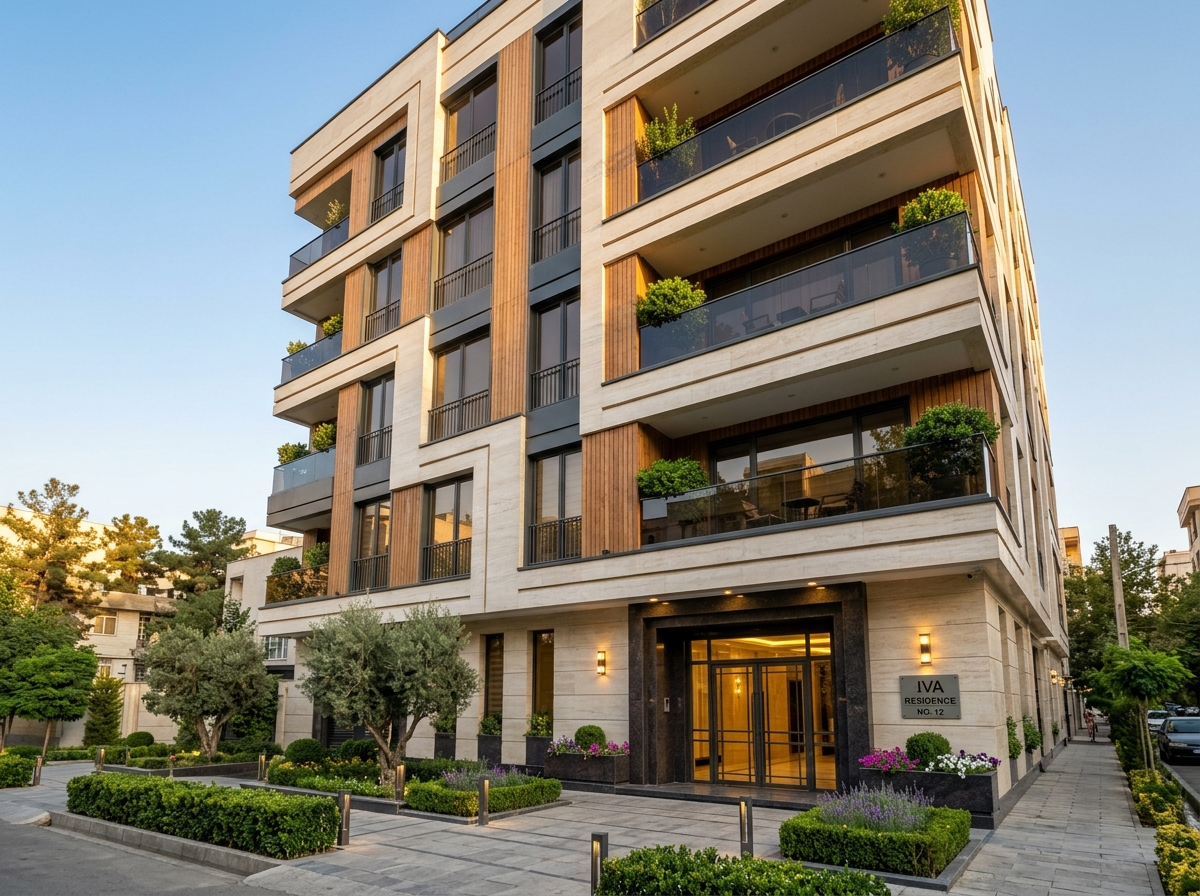
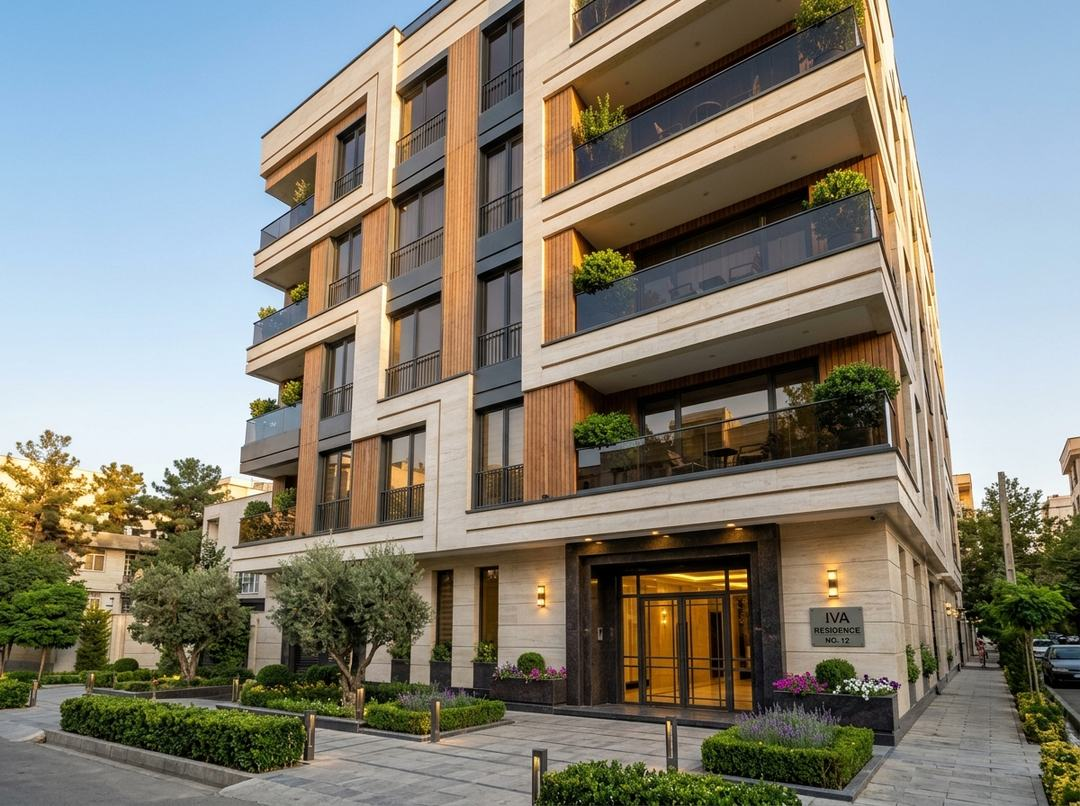
perf: optimize and compress images to lightweight modern WebP format

diff --git a/src/data.ts b/src/data.ts
@@ -83,11 +83,11 @@ export const listings: (Listing & { is_investment?: boolean; is_urgent?: boolean
       "مشاعات تمام سنگ",
       "دوربین مداربسته و لابی شیک"
     ],
-    "primaryImage": "apartment-1-facade.jpg",
+    "primaryImage": "apartment-1-facade.webp",
     "images": [
-      "apartment-1-facade.jpg",
-      "apartment-2-interior.jpg",
-      "apartment-3-facade.jpg"
+      "apartment-1-facade.webp",
+      "apartment-2-interior.webp",
+      "apartment-3-facade.webp"
     ],
     "description": "فروش آپارتمان ۱۱۰ متری نوساز کلید نخورده در گرمدره شمالی | رو به نما و غرق در نور\n\nواحدی بسیار خوشنقشه و بدون حتی یک سانتیمتر پرتی در یکی از آرامترین و عریضترین خیابانهای گرمدره شمالی.\n\nمشخصات واحد:\n🏢 متراژ: ۱۱۰ متر مربع\n✨ وضعیت: نوساز و کلید نخورده\n🛏 خواب: ۲ خواب استاندارد (یک خواب مستر با کمد دیواریهای جادار)\n☀ نورگیری: سالن پردهخور رو به نما با پنجرههای قدی و آفتابگیر مستقیم\n🍳 آشپزخانه: کابینتهای مدرن، گاز رومیزی، هود مخفی و جای ساید و ظرفشویی\n❄🔥 تاسیسات: داکت اسپلیت و پکیج مستقل\n\nمشخصات ساختمان:\n🚗 پارکینگ سندی اختصاصی بدون مزاحم\n📦 انباری بزرگ سندی\n🛗 آسانسور ۸ نفره کابین تمام استیل ایتالیایی\n🏛 نمای رومی سنگ تراورتن کرم با نورپردازی مهندسی شبانه\n📄 سند آماده انتقال رسمی با کد رهگیری\n\nدسترسی سریع ۲ دقیقهای به بزرگراه شهید لشکری (جاده مخصوص) و ایستگاه مترو.",
     "agentName": "املاک صدر",
@@ -132,11 +132,11 @@ export const listings: (Listing & { is_investment?: boolean; is_urgent?: boolean
       "کابینت MDF ضدخش",
       "دسترسی پیاده به مراکز خرید"
     ],
-    "primaryImage": "apartment-2-interior.jpg",
+    "primaryImage": "apartment-2-interior.webp",
     "images": [
-      "apartment-2-interior.jpg",
-      "apartment-3-facade.jpg",
-      "apartment-1-facade.jpg"
+      "apartment-2-interior.webp",
+      "apartment-3-facade.webp",
+      "apartment-1-facade.webp"
     ],
     "description": "فروش آپارتمان ۸۵ متری خوشنقشه در بلوار امیرکبیر گرمدره\n\nگزینهای ایدهآل و مقرونبهصرفه برای سکونت خانواده یا سرمایهگذاری پربازده در قلب گرمدره با دسترسی پیاده به تمامی امکانات رفاهی و خدماتی.\n\nویژگیهای واحد:\n🏢 متراژ: ۸۵ متر مربع\n🛏 ۲ اتاق خواب دلباز با کمد دیواری\n🛋 سالن پذیرایی مربع با قابلیت چیدمان آسان\n🚗 پارکینگ اختصاصی\n🛗 آسانسور مدرن\n📦 انباری اختصاصی\n📄 سند تکبرگ عرصه و اعیان، قابلیت دریافت وام مسکن تا ۸۰۰ میلیون تومان\n💰 قابلیت رهن کامل تا ۶۵۰ میلیون تومان (توسط املاک صدر)\n\nفاصله تا اتوبان تهران-کرج کمتر از ۳ دقیقه.",
     "agentName": "املاک صدر",
@@ -181,11 +181,11 @@ export const listings: (Listing & { is_investment?: boolean; is_urgent?: boolean
       "سیستم خانه هوشمند",
       "متریال لوکس وارداتی"
     ],
-    "primaryImage": "apartment-3-facade.jpg",
+    "primaryImage": "apartment-3-facade.webp",
     "images": [
-      "apartment-3-facade.jpg",
-      "apartment-1-facade.jpg",
-      "apartment-2-interior.jpg"
+      "apartment-3-facade.webp",
+      "apartment-1-facade.webp",
+      "apartment-2-interior.webp"
     ],
     "description": "فروش آپارتمان تکواحدی ۱۴۰ متری در کوهک گرمدره | لوکس و آرام\n\nیکی از پروژههای فاخر و برند در بافت دنج و ویلایی کوهک گرمدره جنوبی، ساختمانی آرام با همسایگان گزینششده و چشمانداز فوقالعاده.\n\nمشخصات برجسته:\n🏢 طبقه تکواحدی بدون دیوار مشترک\n📐 مساحت: ۱۴۰ متر مربع\n🛏 ۳ خواب استاندارد (یک خواب مستر با کلوزت روم اختصاصی)\n🌄 نورگیری دوطرفه شمالی-جنوبی با بالکن قابل چیدمان\n🚗 ۲ پارکینگ سندی اختصاصی (باکس)\n🛋 کف سنگ دهبید سوپر، شیرآلات توکار شودر\n🌿 روفگاردن مجهز با آلاچیق و باربیکیو و دید پانوراما\n📄 سند تکبرگ ششدانگ آماده انتقال قطعی\n\nنزدیکی بینظیر به ایستگاه متروی گرمدره و بزرگراه تهران-کرج.",
     "agentName": "املاک صدر",
@@ -229,11 +229,11 @@ export const listings: (Listing & { is_investment?: boolean; is_urgent?: boolean
       "پنجره دوجداره وینتک",
       "نگهبانی محله و امنیت بالا"
     ],
-    "primaryImage": "apartment-1-facade.jpg",
+    "primaryImage": "apartment-1-facade.webp",
     "images": [
-      "apartment-1-facade.jpg",
-      "apartment-2-interior.jpg",
-      "apartment-3-facade.jpg"
+      "apartment-1-facade.webp",
+      "apartment-2-interior.webp",
+      "apartment-3-facade.webp"
     ],
     "description": "فروش آپارتمان ۹۵ متری دو خوابه در شهرک شاهد گرمدره\n\nواقع در یکی از منظمترین و اصیلترین شهرکهای مسکونی گرمدره با خیابانهای عریض و فضای سبز محلهای مناسب پیادهروی و زندگی آرام.\n\nامکانات و مشخصات:\n🏢 ۹۵ متر زیربنای مهندسیساز\n🛏 ۲ خواب با کمد دیواریهای عمیق\n🚗 پارکینگ سندی بدون مزاحم\n🛗 آسانسور مدرن بیصدا\n📦 انباری کاربردی\n🛋 سالن خوشچیدمان رو به آفتاب\n📄 سند تکبرگ ششدانگ، آماده انتقال در دفترخانه\n\nتخلیه و آماده تحویل فوری کلید.",
     "agentName": "املاک صدر",
@@ -278,11 +278,11 @@ export const listings: (Listing & { is_investment?: boolean; is_urgent?: boolean
       "جکوزی اختصاصی در مستر",
       "باربیکیو سنگی در تراس"
     ],
-    "primaryImage": "apartment-3-facade.jpg",
+    "primaryImage": "apartment-3-facade.webp",
     "images": [
-      "apartment-3-facade.jpg",
-      "apartment-2-interior.jpg",
-      "apartment-1-facade.jpg"
+      "apartment-3-facade.webp",
+      "apartment-2-interior.webp",
+      "apartment-1-facade.webp"
     ],
     "description": "فروش پنتهاوس ۱۸۰ متری مجلل در گرمدره شمالی | ویوی ۳۶۰ درجه رشته کوه البرز\n\nملکی کمنظیر برای افرادی که خواهان فضایی ویلایی در کالبد یک آپارتمان لوکس و ایمن هستند.\n\nجزئیات ملک:\n🏢 متراژ بنا: ۱۸۰ متر + ۴۰ متر تراس بدون مشرف\n🛏 ۳ خواب مجلل (۲ مستر با جکوزی اختصاصی و کلوزت)\n🌄 چشمانداز خیرهکننده و دید باز بدون مزاحمت\n🚗 ۲ پارکینگ اختصاصی سندی\n🛗 آسانسور اختصاصی با کلید کدینگ\n🍳 آشپزخانه مدرن با صفحه کورین و فرنیش برند\n🔥 شومینه برقی مدرن و سیستم صوتی توکار هوشمند\n📄 سند تکبرگ اعیان\n\nبازدید با هماهنگی قبلی از طریق دپارتمان املاک صدر.",
     "agentName": "املاک صدر",
@@ -325,11 +325,11 @@ export const listings: (Listing & { is_investment?: boolean; is_urgent?: boolean
       "قرارداد رسمی در سامانه کاتب با کد رهگیری",
       "متریال درجه یک تضمین شده"
     ],
-    "primaryImage": "apartment-1-facade.jpg",
+    "primaryImage": "apartment-1-facade.webp",
     "images": [
-      "apartment-1-facade.jpg",
-      "apartment-3-facade.jpg",
-      "apartment-2-interior.jpg"
+      "apartment-1-facade.webp",
+      "apartment-3-facade.webp",
+      "apartment-2-interior.webp"
     ],
     "description": "پیشفروش مطمئن آپارتمان ۱۰۰ متری در بهترین لوکیشن بلوار امیرکبیر گرمدره\n\nبهترین فرصت برای خانهدار شدن و افزایش ارزش سرمایه با شرایط پرداخت منعطف و متناسب با بودجه شما.\n\nاطلاعات پروژه:\n🏗 پیشرفت فیزیکی پروژه: ۶۰ درصد (مرحله تیغهچینی و تاسیسات)\n🏢 متراژ واحدها: ۱۰۰ متر ۲ خواب\n⏱ زمان تحویل: ۱۰ ماه آینده\n💰 شرایط پرداخت: ۴۰٪ نقد، ۴۵٪ اقساط همگام با پیشرفت کار، ۵٪ تحویل، ۱۰٪ سند\n📄 ثبت قرارداد رسمی با کد رهگیری و تعهد خسارت تاخیر روزانه\n\nجهت دریافت جدول اقساط و رویت پیشرفت پروژه با ما در ارتباط باشید.",
     "agentName": "املاک صدر",
@@ -429,7 +429,7 @@ export const blogPosts: BlogPost[] = [
   </a>
 </div>
 `,
-    "coverImage": "apartment-1-facade.jpg",
+    "coverImage": "apartment-1-facade.webp",
     "metaTitle": "راهنمای خرید آپارتمان در گرمدره | املاک صدر",
     "metaDescription": "صفر تا صد خرید آپارتمان در گرمدره البرز، میانگین قیمت هر متر، بهترین محلهها، سند تکبرگ و نکات طلایی معامله مسکن با مشاورین املاک صدر.",
     "focusKeyword": "خرید آپارتمان در گرمدره"
@@ -466,7 +466,7 @@ export const blogPosts: BlogPost[] = [
 محله کوهک به دلیل نزدیکی به ایستگاه مترو و اتوبان تهران-کرج، محبوبیت بالایی دارد. بافت کوهک ترکیبی از باغهای سرسبز و ساختمانهای نوساز کمتراکم (تکواحدی) است که آرامش بینظیری را برای ساکنین رقم میزند.
 </p>
 `,
-    "coverImage": "apartment-3-facade.jpg",
+    "coverImage": "apartment-3-facade.webp",
     "metaTitle": "بهترین محلههای گرمدره برای خرید آپارتمان | املاک صدر",
     "metaDescription": "معرفی و مقایسه محلههای گرمدره شمالی، بلوار امیرکبیر و کوهک برای خرید آپارتمان و سکونت خانواده. مشاوره تخصصی در دپارتمان املاک صدر.",
     "focusKeyword": "بهترین محله های گرمدره"
@@ -503,7 +503,7 @@ export const blogPosts: BlogPost[] = [
 ساختمانهای گرمدره عموماً ۴ تا ۵ طبقه هستند که ترافیک آسانسور، پارک خودرو و شلوغی برجهای ۲۰ طبقه را ندارند و محیطی صمیمی و آرام برای زندگی خانوادگی فراهم میکنند.
 </p>
 `,
-    "coverImage": "apartment-2-interior.jpg",
+    "coverImage": "apartment-2-interior.webp",
     "metaTitle": "مقایسه خرید آپارتمان در گرمدره با منطقه ۲۲ تهران | املاک صدر",
     "metaDescription": "چرا خرید آپارتمان در گرمدره با سند تکبرگ و قیمت مناسب، گزینهای هوشمندانهتر از منطقه ۲۲ تهران و چیتگر است؟ تحلیل املاک صدر.",
     "focusKeyword": "خرید آپارتمان گرمدره یا چیتگر"

diff --git a/src/app/HomeClient.tsx b/src/app/HomeClient.tsx
@@ -62,7 +62,7 @@ export default function HomeClient({ initialListings, investmentListings = [], u
     <div className="flex flex-col">
       {/* 1. HERO SECTION */}
       <section className="relative pt-[120px] pb-20 md:pt-[160px] md:pb-40 overflow-hidden flex flex-col items-center justify-center min-h-[85vh]">
-        <Image src={getImageUrl('hero-bg.jpg')} alt="خرید و فروش آپارتمان در گرمدره" fill priority className="object-cover object-center z-0" sizes="100vw" quality={70} />
+        <Image src={getImageUrl('hero-bg.webp')} alt="خرید و فروش آپارتمان در گرمدره" fill priority className="object-cover object-center z-0" sizes="100vw" quality={75} />
         {/* Glow Effects */}
         <div className="absolute top-0 right-0 w-96 h-96 bg-[var(--color-orange)]/15 rounded-full blur-[100px] pointer-events-none mix-blend-screen opacity-50"></div>
         <div className="absolute bottom-0 left-0 w-[500px] h-[500px] bg-[var(--color-blue)]/10 rounded-full blur-[120px] pointer-events-none mix-blend-screen opacity-50"></div>

diff --git a/src/utils.ts b/src/utils.ts
@@ -48,8 +48,8 @@ export function getImageUrl(filename: string | null | undefined): string {
   if (!filename) return '';
   if (filename.startsWith('http://') || filename.startsWith('https://')) return filename;
   const prefix = process.env.NEXT_PUBLIC_BASE_PATH || '';
-  if (filename === 'hero-bg.jpg' || filename === '/hero-bg.jpg') {
-    return `${prefix}/hero-bg.jpg`;
+  if (filename === 'hero-bg.jpg' || filename === '/hero-bg.jpg' || filename === 'hero-bg.webp' || filename === '/hero-bg.webp') {
+    return `${prefix}/${filename.replace(/^\//, '')}`;
   }
   const cleanFilename = filename.replace(/^\/?uploads\//, '').replace(/^\//, '');
   return `${prefix}/uploads/${cleanFilename}`;
